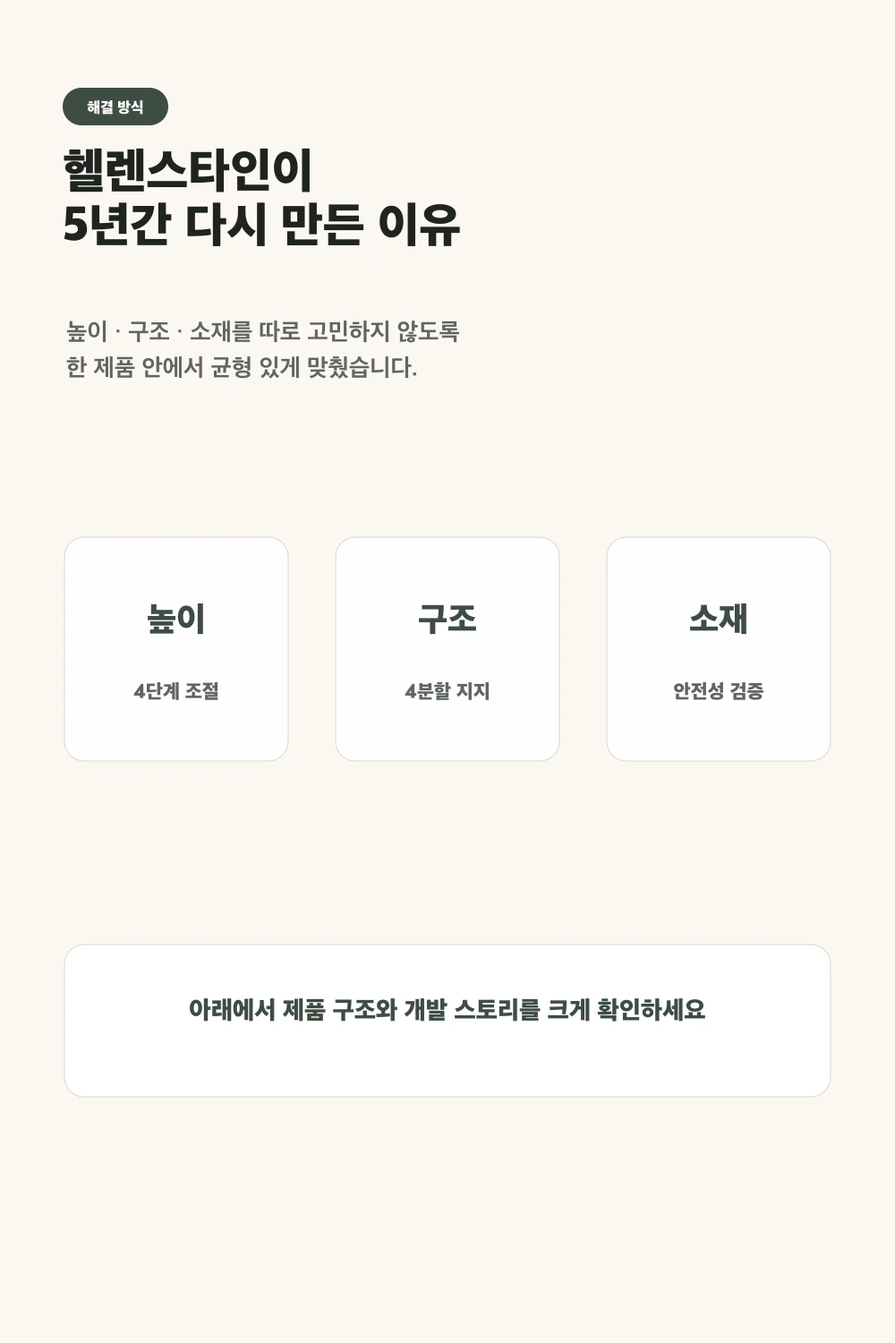
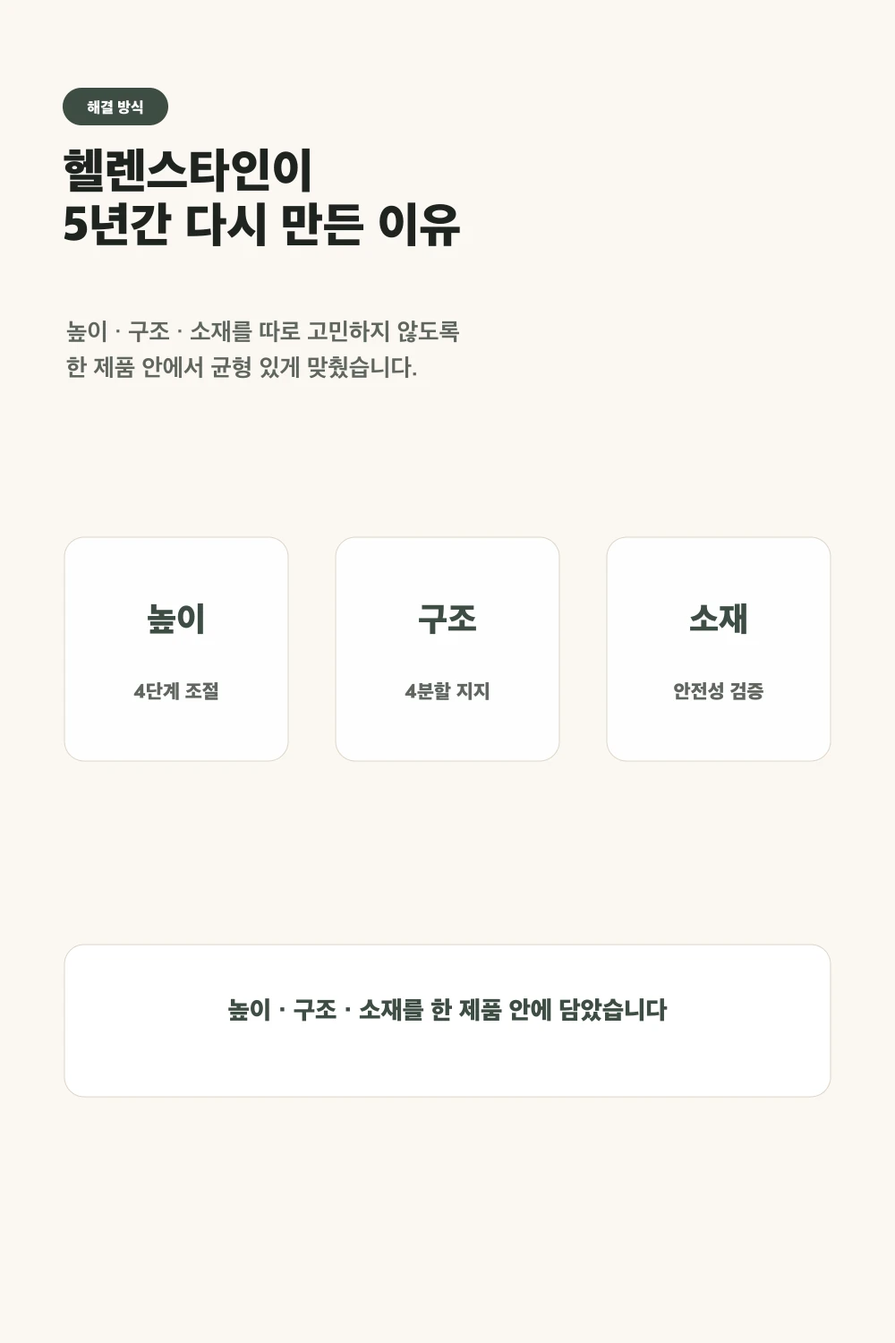
헬렌스타인 PDP GTM full-width 배치 보정
기존 구현은 GTM이 #prdDetail .prdimages만 교체해서 제안 PDP가 PC에서 .detail-left 730px 컬럼 안에 갇히고, 오른쪽 구매 패널이 상세 본문 옆에 계속 붙는 문제가 있었다. 이번 커밋에서는 stickyNav와 .xans-product-additional을 .detailArea 바깥의 .hst-full-detail-shell로 이동해 상세 본문을 1000px 중심 정렬로 렌더링하도록 변경했다.

구매 기능은 건드리지 않도록 Cafe24 구매 폼, 옵션, 수량, 장바구니, Buy Now 영역은 그대로 두었다. 단, 로컬 Cafe24 마크업에서 비구매 안내 블록인 #detailguide가 .detail-right 안에 있어 제안 PDP보다 먼저 노출될 수 있어서, 해당 안내 블록만 제안 shell 뒤로 이동하도록 처리했다.

모바일에서는 기존 Cafe24 하단 구매바와 중복되지 않도록 custom sticky CTA를 생성하지 않는다. PC에서는 구매 영역이 화면에 보이지 않을 때만 구매 옵션 보기 / 후기 보기 sticky를 노출하고, 구매 영역이 보이는 구간에서는 숨긴다. 리뷰 점프와 구매 영역 스크롤 이벤트는 기존 dataLayer 이벤트로 유지했다.

고객에게 보이는 문구에서 후기 수 과시, 내부 배치 전략, 아래에서 크게 확인하라는 제작자 관점 표현을 제거했다. 실제 후기 캐러셀은 '먼저 써본 분들의 사용감' 흐름으로 바꾸고, 구매 전 기준은 FAQ식 문구가 아니라 높이, 자세, 적응, 관리, 선물 기준을 자연스럽게 확인하는 형태로 정리했다.

생성 컷은 solution/authority 하단 문구를 고객 편익 문장으로 수정하고 WebP 및 contact sheet를 다시 빌드했다. docs/pptx-strategy.md와 README.md에는 full-width shell 이동, 모바일 기본 구매바 유지, layout fallback 이벤트를 문서화했다.
[…]

Changed region(s): [[0.217, 0.736, 0.806, 0.7667]]

diff --git a/gtm/hellenstein-pillow-abtest.custom-html.html b/gtm/hellenstein-pillow-abtest.custom-html.html
@@ -3,7 +3,7 @@
   "use strict";
 
   var PRODUCT_NO = "8461";
-  var TAG_VERSION = "2026-05-19.rebuild";
+  var TAG_VERSION = "2026-05-19.full-width-shell";
   var RAW_ASSET_BASE =
     "https://raw.githubusercontent.com/sogangCSmaster/hellenstein_pillow_abtest_sample/main/proposal/";
   var RAW_ORIGINAL_ASSET_BASE =
@@ -14,14 +14,31 @@
   var ORIGINAL_ASSET_BASE = (
     window.__HST_ORIGINAL_ASSET_BASE__ || RAW_ORIGINAL_ASSET_BASE
   ).replace(/\/?$/, "/");
-  var params = new URLSearchParams(window.location.search);
-  var isTargetProduct = params.get("product_no") === PRODUCT_NO;
-  var isExperiment = params.get("abtest") === "true";
-  var isDetailMode = params.get("detail") === "true";
+  var isTargetProduct = getQueryParam("product_no") === PRODUCT_NO;
+  var isExperiment = getQueryParam("abtest") === "true";
+  var isDetailMode = getQueryParam("detail") === "true";
 
   if (!isExperiment || !isTargetProduct) return;
   if (window.__HST_PILLOW_ABTEST_RENDERED__) return;
   window.__HST_PILLOW_ABTEST_RENDERED__ = true;
+
+  function getQueryParam(name) {
+    var query = window.location.search ? window.location.search.substring(1) : "";
+    var pairs = query ? query.split("&") : [];
+    var i;
+    var parts;
+    var key;
+
+    for (i = 0; i < pairs.length; i += 1) {
+      parts = pairs[i].split("=");
+      key = decodeURIComponent((parts[0] || "").replace(/\+/g, " "));
+      if (key === name) {
+        return decodeURIComponent((parts.slice(1).join("=") || "").replace(/\+/g, " "));
+      }
+    }
+
+    return "";
+  }
 
   var detailMeta = {
     hero: {
@@ -97,18 +114,24 @@
   };
 
   function pushEvent(eventName, payload) {
+    var eventPayload = {
+      event: eventName,
+      product_no: PRODUCT_NO,
+      detail_mode: isDetailMode,
+      asset_version: TAG_VERSION
+    };
+    var key;
+
+    if (payload) {
+      for (key in payload) {
+        if (Object.prototype.hasOwnProperty.call(payload, key)) {
+          eventPayload[key] = payload[key];
+        }
+      }
+    }
+
     window.dataLayer = window.dataLayer || [];
-    window.dataLayer.push(
-      Object.assign(
-        {
-          event: eventName,
-          product_no: PRODUCT_NO,
-          detail_mode: isDetailMode,
-          asset_version: TAG_VERSION
-        },
-        payload || {}
-      )
-    );
+    window.dataLayer.push(eventPayload);
   }
 
   function asset(file) {
@@ -143,12 +166,33 @@
     return template.content.firstElementChild;
   }
 
+  function isMobileViewport() {
+    if (window.matchMedia) {
+      return window.matchMedia("(max-width: 767px)").matches;
+    }
+    return (window.innerWidth || document.documentElement.clientWidth || 0) <= 767;
+  }
+
   function injectStyle() {
     if (document.getElementById("hst-pillow-abtest-style")) return;
     var style = document.createElement("style");
     style.id = "hst-pillow-abtest-style";
     style.textContent = "\n      .hst-pdp, .hst-pdp * { box-sizing: border-box; }\n      .hst-pdp {\n        width: 100%;\n        max-width: 1000px;\n        margin: 0 auto;\n        font-family: -apple-system, BlinkMacSystemFont, \"Apple SD Gothic Neo\", \"Pretendard\", \"Noto Sans KR\", sans-serif;\n        color: #24211e;\n        background: #fffdf9;\n      }\n      .hst-block {\n        position: relative;\n        width: 100%;\n        margin: 0 auto;\n        background: #fffdf9;\n      }\n      .hst-image-block img {\n        display: block;\n        width: 100%;\n        height: auto;\n        margin: 0 auto;\n        border: 0;\n      }\n      .hst-html-block {\n        padding: 72px 56px;\n        border-top: 1px solid #ede3d7;\n      }\n      .hst-eyebrow {\n        display: inline-flex;\n        align-items: center;\n        height: 30px;\n        padding: 0 13px;\n        border-radius: 999px;\n        background: #3d4d43;\n        color: #fff;\n        font-size: 13px;\n        font-weight: 800;\n        letter-spacing: 0;\n      }\n      .hst-html-block h2 {\n        margin: 22px 0 16px;\n        font-size: 40px;\n        line-height: 1.18;\n        font-weight: 850;\n        letter-spacing: 0;\n        color: #1f2421;\n      }\n      .hst-html-block p {\n        margin: 0;\n        font-size: 18px;\n        line-height: 1.72;\n        color: #62675f;\n        letter-spacing: 0;\n      }\n      .hst-persona-grid,\n      .hst-comparison-table,\n      .hst-risk-grid {\n        margin-top: 34px;\n      }\n      .hst-review-card {\n        min-height: 230px;\n        padding: 22px 20px;\n        border: 1px solid #e5ddd2;\n        border-radius: 8px;\n        background: #fff;\n      }\n      .hst-review-card blockquote {\n        margin: 14px 0 16px;\n        font-size: 15px;\n        line-height: 1.62;\n        color: #32342f;\n      }\n      .hst-review-card footer {\n        font-size: 13px;\n        color: #7b7a73;\n      }\n      .hst-action-row {\n        display: flex;\n        flex-wrap: wrap;\n        gap: 10px;\n        align-items: center;\n        margin-top: 30px;\n      }\n      .hst-button {\n        appearance: none;\n        border: 1px solid #3d4d43;\n        border-radius: 4px;\n        background: #3d4d43;\n        color: #fff;\n        min-height: 46px;\n        padding: 0 18px;\n        font-size: 15px;\n        font-weight: 800;\n        cursor: pointer;\n      }\n      .hst-button.secondary {\n        background: #fff;\n        color: #3d4d43;\n      }\n      .hst-comparison-wrap {\n        overflow-x: auto;\n        border: 1px solid #e2d9ce;\n        border-radius: 8px;\n        background: #fff;\n      }\n      .hst-comparison-table {\n        width: 100%;\n        min-width: 720px;\n        border-collapse: collapse;\n        margin: 0;\n        font-size: 15px;\n      }\n      .hst-comparison-table th,\n      .hst-comparison-table td {\n        padding: 18px 16px;\n        border-bottom: 1px solid #ebe3d9;\n        text-align: left;\n        vertical-align: top;\n        line-height: 1.55;\n      }\n      .hst-comparison-table th {\n        background: #f7f2ea;\n        color: #3d4d43;\n        font-weight: 850;\n      }\n      .hst-comparison-table tr:last-child td {\n        border-bottom: 0;\n      }\n      .hst-comparison-table td:first-child {\n        width: 18%;\n        font-weight: 850;\n        color: #24211e;\n      }\n      .hst-comparison-table td:nth-child(2) {\n        background: #fffaf3;\n        color: #20231f;\n        font-weight: 720;\n      }\n      .hst-risk-grid {\n        display: grid;\n        grid-template-columns: repeat(3, minmax(0, 1fr));\n        gap: 14px;\n      }\n      .hst-risk-card {\n        padding: 22px 20px;\n        border: 1px solid #e3dacd;\n        border-radius: 8px;\n        background: #fff;\n      }\n      .hst-risk-card strong {\n        display: block;\n        margin-bottom: 10px;\n        color: #3d4d43;\n        font-size: 18px;\n      }\n      .hst-top-proof {\n        clear: both;\n        margin: 18px 0 24px;\n        padding: 18px 18px 16px;\n        border: 1px solid #e5ddd2;\n        border-radius: 8px;\n        background: #fffaf3;\n        font-family: -apple-system, BlinkMacSystemFont, \"Apple SD Gothic Neo\", \"Pretendard\", \"Noto Sans KR\", sans-serif;\n      }\n      .hst-top-proof strong {\n        display: block;\n        font-size: 18px;\n        line-height: 1.35;\n        color: #24211e;\n      }\n      .hst-top-proof p {\n        margin: 7px 0 0;\n        font-size: 13px;\n        line-height: 1.55;\n        color: #68645d;\n      }\n      .hst-top-proof button {\n        margin-top: 12px;\n        height: 36px;\n        padding: 0 13px;\n        border: 1px solid #3d4d43;\n        border-radius: 4px;\n        background: #3d4d43;\n        color: #fff;\n        font-size: 13px;\n        font-weight: 800;\n        cursor: pointer;\n      }\n      .hst-sticky-cta {\n        position: fixed;\n        z-index: 2147483000;\n        right: 24px;\n        bottom: 24px;\n        display: flex;\n        gap: 8px;\n        align-items: center;\n        padding: 10px;\n        border: 1px solid rgba(61, 77, 67, .18);\n        border-radius: 8px;\n        background: rgba(255, 253, 249, .96);\n        box-shadow: 0 12px 32px rgba(0, 0, 0, .16);\n        backdrop-filter: blur(10px);\n      }\n      .hst-sticky-cta button {\n        height: 42px;\n        border-radius: 4px;\n        border: 1px solid #3d4d43;\n        padding: 0 14px;\n        font-size: 14px;\n        font-weight: 850;\n        cursor: pointer;\n      }\n      .hst-sticky-cta .primary {\n        background: #3d4d43;\n        color: #fff;\n      }\n      .hst-sticky-cta .secondary {\n        background: #fff;\n        color: #3d4d43;\n      }\n      .hst-detail-highlight {\n        outline: 3px solid rgba(239, 68, 68, .9);\n        outline-offset: -3px;\n      }\n      .hst-detail-highlight::before {\n        content: \"\";\n        position: absolute;\n        inset: 0;\n        pointer-events: none;\n        background: rgba(255, 214, 102, .18);\n        z-index: 4;\n      }\n      .hst-detail-badge {\n        position: absolute;\n        z-index: 5;\n        top: 18px;\n        left: 18px;\n        max-width: min(430px, calc(100% - 36px));\n        padding: 14px 15px 13px;\n        border: 2px solid #ef4444;\n        border-radius: 8px;\n        background: rgba(255, 255, 255, .94);\n        color: #1f2421;\n        box-shadow: 0 12px 30px rgba(31, 36, 33, .18);\n        text-align: left;\n      }\n      .hst-detail-badge strong {\n        display: block;\n        font-size: 14px;\n        line-height: 1.35;\n        color: #b42318;\n      }\n      .hst-detail-badge span {\n        display: block;\n        margin-top: 4px;\n        font-size: 13px;\n        line-height: 1.45;\n        color: #544c43;\n      }\n      @media (max-width: 767px) {\n        html.hst-pillow-abtest-active,\n        html.hst-pillow-abtest-active body {\n          width: 100% !important;\n          max-width: 100% !important;\n          margin-left: 0 !important;\n          margin-right: 0 !important;\n          overflow-x: hidden !important;\n        }\n        html.hst-pillow-abtest-active #wrap,\n        html.hst-pillow-abtest-active #container,\n        html.hst-pillow-abtest-active #contentsWrap,\n        html.hst-pillow-abtest-active #contents-detail,\n        html.hst-pillow-abtest-active .detailArea,\n        html.hst-pillow-abtest-active .detail-left,\n        html.hst-pillow-abtest-active .detail-right,\n        html.hst-pillow-abtest-active .productDetail,\n        html.hst-pillow-abtest-active .prdimages,\n        html.hst-pillow-abtest-active .hst-pdp {\n          width: 100% !important;\n          max-width: 100% !important;\n          min-width: 0 !important;\n          margin-left: 0 !important;\n          margin-right: 0 !important;\n          float: none !important;\n        }\n        .hst-html-block {\n          padding: 48px 20px;\n        }\n        .hst-html-block h2 {\n          font-size: 29px;\n          line-height: 1.22;\n        }\n        .hst-html-block p {\n          font-size: 15px;\n          line-height: 1.72;\n        }\n        .hst-risk-grid {\n          grid-template-columns: 1fr;\n        }\n        .hst-sticky-cta {\n          left: 12px;\n          right: 12px;\n          bottom: 78px;\n          justify-content: stretch;\n        }\n        .hst-sticky-cta button {\n          flex: 1 1 0;\n          padding: 0 10px;\n        }\n        .hst-detail-badge {\n          position: relative;\n          top: auto;\n          left: auto;\n          max-width: none;\n          margin: 0;\n          border-radius: 0;\n          border-left: 3px solid #ef4444;\n          border-right: 3px solid #ef4444;\n        }\n      }\n    ";
     style.textContent +=
+      "\n      html.hst-pillow-abtest-full-detail .hst-full-detail-shell { clear: both; width: 100%; max-width: none; margin: 0 auto; padding: 0 0 80px; background: #fffdf9; }" +
+      "\n      html.hst-pillow-abtest-full-detail .hst-full-detail-shell::before { content: \"\"; display: table; clear: both; }" +
+      "\n      html.hst-pillow-abtest-full-detail .hst-full-detail-shell #stickyNav { position: sticky; top: 72px; z-index: 30; width: 100% !important; max-width: 1000px !important; margin: 0 auto !important; background: #fffdf9; }" +
+      "\n      html.hst-pillow-abtest-full-detail .hst-full-detail-shell #stickyNav .nav-list { display: flex; list-style: none; margin: 0; padding: 0; border-left: 1px solid #e3dacd; background: #fffdf9; }" +
+      "\n      html.hst-pillow-abtest-full-detail .hst-full-detail-shell #stickyNav .nav-item { flex: 1 1 0; margin: 0; padding: 0; text-align: center; }" +
+      "\n      html.hst-pillow-abtest-full-detail .hst-full-detail-shell #stickyNav .nav-item a { display: block; min-height: 48px; padding: 14px 12px; border-top: 1px solid #e3dacd; border-right: 1px solid #e3dacd; border-bottom: 1px solid #e3dacd; background: #fffdf9; color: #3d4d43; text-decoration: none; font-size: 15px; font-weight: 850; line-height: 1.35; }" +
+      "\n      html.hst-pillow-abtest-full-detail .hst-full-detail-shell #stickyNav .nav-item.active a { background: #3d4d43; color: #fff; }" +
+      "\n      html.hst-pillow-abtest-full-detail .hst-full-detail-shell .xans-product-additional, html.hst-pillow-abtest-full-detail .hst-full-detail-shell #prdDetail, html.hst-pillow-abtest-full-detail .hst-full-detail-shell #prdDetail .prdimages, html.hst-pillow-abtest-full-detail .hst-full-detail-shell .productDetail { width: 100% !important; max-width: none !important; min-width: 0 !important; margin-left: auto !important; margin-right: auto !important; float: none !important; clear: both !important; }" +
+      "\n      html.hst-pillow-abtest-full-detail .hst-full-detail-shell #prdDetail .prdimages { padding: 0 !important; text-align: initial !important; }" +
+      "\n      html.hst-pillow-abtest-full-detail .hst-full-detail-shell #prdReview, html.hst-pillow-abtest-full-detail .hst-full-detail-shell #prdQnA, html.hst-pillow-abtest-full-detail .hst-full-detail-shell .pc_detail_board { width: 100% !important; max-width: 1000px !important; margin-left: auto !important; margin-right: auto !important; }" +
+      "\n      html.hst-pillow-abtest-full-detail #detailguide { width: 100% !important; max-width: 1000px !important; margin-left: auto !important; margin-right: auto !important; clear: both !important; }" +
+      "\n      html.hst-pillow-abtest-full-detail .hst-full-detail-shell .hst-block, html.hst-pillow-abtest-full-detail .hst-full-detail-shell #prdReview, html.hst-pillow-abtest-full-detail .hst-full-detail-shell #prdQnA { scroll-margin-top: 120px; }" +
+      "\n      .hst-sticky-cta { opacity: 0 !important; pointer-events: none !important; transform: translateY(8px); transition: opacity .18s ease, transform .18s ease; }" +
+      "\n      .hst-sticky-cta.is-visible { opacity: 1 !important; pointer-events: auto !important; transform: translateY(0); }" +
       "\n      .hst-review-carousel { margin-top: 34px; display: flex; gap: 14px; overflow-x: auto; overscroll-behavior-x: contain; scroll-snap-type: x mandatory; padding: 0 4px 12px 0; -webkit-overflow-scrolling: touch; }" +
       "\n      .hst-review-carousel .hst-review-card { flex: 0 0 320px; scroll-snap-align: start; }" +
       "\n      .hst-review-card .hst-review-label { display: inline-flex; align-items: center; min-height: 28px; padding: 0 10px; border-radius: 999px; background: #f7f2ea; color: #3d4d43; font-size: 12px; font-weight: 850; }" +
@@ -156,7 +200,7 @@
       "\n      .hst-criteria-item { padding: 24px 24px 22px; border: 1px solid #e3dacd; border-radius: 8px; background: #fff; }" +
       "\n      .hst-criteria-item strong { display: block; margin-bottom: 10px; font-size: 18px; color: #24211e; }" +
       "\n      .hst-criteria-item p { font-size: 15px; line-height: 1.65; }" +
-      "\n      @media (max-width: 767px) { .hst-review-carousel { margin-left: -20px; margin-right: -20px; padding-left: 20px; padding-right: 20px; } .hst-review-carousel .hst-review-card { flex-basis: 82%; } .hst-criteria-list { grid-template-columns: 1fr; } }";
+      "\n      @media (max-width: 767px) { html.hst-pillow-abtest-full-detail .hst-full-detail-shell { padding-bottom: 40px; } html.hst-pillow-abtest-full-detail .hst-full-detail-shell #stickyNav { top: 94px; max-width: 100% !important; overflow-x: auto; } html.hst-pillow-abtest-full-detail .hst-full-detail-shell #stickyNav .nav-list { min-width: 330px; } html.hst-pillow-abtest-full-detail .hst-full-detail-shell #stickyNav .nav-item a { min-height: 42px; padding: 12px 10px; font-size: 13px; white-space: nowrap; } .hst-sticky-cta { display: none !important; } .hst-review-carousel { margin-left: -20px; margin-right: -20px; padding-left: 20px; padding-right: 20px; } .hst-review-carousel .hst-review-card { flex-basis: 82%; } .hst-criteria-list { grid-template-columns: 1fr; } }";
     document.head.appendChild(style);
   }
 
@@ -293,7 +337,7 @@
     var reviews = collectReviews();
     return htmlBlock(
       "social-proof",
-      "\n        <span class=\"hst-eyebrow\">실제 사용 후기</span>\n        <h2>숫자보다, 실제 사용감을 먼저 보여줍니다</h2>\n        <p>후기 수를 크게 반복하기보다 실제 리뷰에서 반복되는 높이 조절, 목 지지감, 관리 편의성 이야기를 가로로 넘겨볼 수 있게 배치합니다.</p>\n        <div class=\"hst-review-carousel\" aria-label=\"실제 사용 후기 캐러셀\">" + (reviewCards(reviews)) + "</div>\n        <div class=\"hst-action-row\">\n          <button class=\"hst-button\" type=\"button\" data-hst-review-jump>전체 후기 보기</button>\n        </div>\n      ",
+      "\n        <span class=\"hst-eyebrow\">실제 사용 후기</span>\n        <h2>먼저 써본 분들의 사용감</h2>\n        <p>높이 조절이 쉬웠는지, 목을 받쳐주는 느낌이 어땠는지 실제 후기로 확인하세요.</p>\n        <div class=\"hst-review-carousel\" aria-label=\"실제 사용 후기 캐러셀\">" + (reviewCards(reviews)) + "</div>\n        <div class=\"hst-action-row\">\n          <button class=\"hst-button\" type=\"button\" data-hst-review-jump>후기 확인하기</button>\n        </div>\n      ",
       detailMeta.social
     );
   }
@@ -317,7 +361,7 @@
   function purchaseCriteriaBlock() {
     return htmlBlock(
       "purchase-criteria",
-      "\n        <span class=\"hst-eyebrow\">구매 전 확인 기준</span>\n        <h2>내게 맞는지 판단할 기준을 먼저 정리합니다</h2>\n        <p>일반적인 문답 섹션 대신 실제 구매 전에 비교하게 되는 기준을 순서대로 보여줍니다. 베개를 고르는 이유가 분명해질수록 가격 비교보다 내 몸에 맞는지 판단하기 쉬워집니다.</p>\n        <div class=\"hst-criteria-list\">\n          <div class=\"hst-criteria-item\"><strong>높이: 낮게 시작해 한 단계씩 맞추기</strong><p>처음부터 높은 세팅을 고정하지 않고, 기본 높이에서 시작해 목과 어깨 느낌에 맞춰 패드를 조절하는 흐름으로 안내합니다.</p></div>\n          <div class=\"hst-criteria-item\"><strong>자세: 바로 눕기와 옆잠을 같이 보기</strong><p>정면으로 누웠을 때의 목 지지감과 옆으로 누웠을 때 머리·목 라인이 함께 맞는지 확인하도록 구조 정보를 이어서 배치합니다.</p></div>\n          <div class=\"hst-criteria-item\"><strong>적응: 첫날 느낌만으로 판단하지 않기</strong><p>경추 베개는 체형과 수면 습관에 따라 적응감이 달라질 수 있으므로, 조절 방법과 공식 교환·반품 기준을 함께 확인하게 합니다.</p></div>\n          <div class=\"hst-criteria-item\"><strong>관리: 매일 쓰는 침구답게 확인하기</strong><p>커버, 세탁, 케어 가이드, 제품 스펙을 하단에서 다시 확인하게 해 오래 쓰는 침구의 관리 불안을 줄입니다.</p></div>\n          <div class=\"hst-criteria-item\"><strong>선물: 높이 취향을 몰라도 설명하기 쉽게</strong><p>부모님이나 가족 선물 맥락에서는 조절형 구조와 사용 가이드가 있다는 점을 중심으로 선택 이유를 만들 수 있습니다.</p></div>\n        </div>\n      ",
+      "\n        <span class=\"hst-eyebrow\">구매 전 확인 기준</span>\n        <h2>내게 맞는 베개인지 확인하는 기준</h2>\n        <p>처음에는 기본 높이로 시작하고, 자세와 관리 방식까지 함께 보면 선택이 쉬워집니다.</p>\n        <div class=\"hst-criteria-list\">\n          <div class=\"hst-criteria-item\"><strong>높이: 낮게 시작해 한 단계씩 맞추기</strong><p>처음부터 높은 세팅을 고정하지 않고, 기본 높이에서 시작해 목과 어깨 느낌에 맞춰 패드를 조절합니다.</p></div>\n          <div class=\"hst-criteria-item\"><strong>자세: 바로 눕기와 옆잠을 같이 보기</strong><p>정면으로 누웠을 때의 목 지지감과 옆으로 누웠을 때 머리·목 라인이 함께 맞는지 확인합니다.</p></div>\n          <div class=\"hst-criteria-item\"><strong>적응: 첫날 느낌만으로 판단하지 않기</strong><p>경추 베개는 체형과 수면 습관에 따라 적응감이 달라질 수 있어 조절 방법과 공식 교환·반품 기준을 함께 확인합니다.</p></div>\n          <div class=\"hst-criteria-item\"><strong>관리: 매일 쓰는 침구답게 확인하기</strong><p>커버, 세탁, 케어 가이드, 제품 스펙을 함께 확인하면 오래 쓰는 침구의 관리 부담을 줄일 수 있습니다.</p></div>\n          <div class=\"hst-criteria-item\"><strong>선물: 높이 취향을 몰라도 설명하기 쉽게</strong><p>부모님이나 가족 선물이라면 조절형 구조와 사용 가이드가 있는지 먼저 확인하는 편이 좋습니다.</p></div>\n        </div>\n      ",
       detailMeta.criteria
     );
   }
@@ -362,24 +406,27 @@
     var box = document.querySelector(".infoAreabox");
     if (!box || document.querySelector(".hst-top-proof")) return;
     var proof = createElement(
-      "\n      <div class=\"hst-top-proof\">\n        <strong>실제 후기에서 반복되는 만족 포인트</strong>\n        <p>높이 조절, 목 지지감, 관리 편의성을 구매 전에 먼저 확인하세요.</p>\n        <button type=\"button\" data-hst-review-jump>실제 후기 먼저 보기</button>\n      </div>\n      "
+      "\n      <div class=\"hst-top-proof\">\n        <strong>먼저 써본 분들의 사용감</strong>\n        <p>높이 조절과 목 지지감은 실제 후기로 먼저 확인할 수 있습니다.</p>\n        <button type=\"button\" data-hst-review-jump>후기 확인하기</button>\n      </div>\n      "
     );
     box.parentNode.insertBefore(proof, box.nextSibling);
   }
 
   function injectStickyCta() {
+    if (isMobileViewport()) return;
     if (document.querySelector(".hst-sticky-cta")) return;
     var sticky = createElement(
-      "\n      <div class=\"hst-sticky-cta\" role=\"region\" aria-label=\"내 목의 베개 빠른 이동\">\n        <button type=\"button\" class=\"primary\" data-hst-purchase-jump>옵션 확인</button>\n        <button type=\"button\" class=\"secondary\" data-hst-review-jump>후기 보기</button>\n      </div>\n      "
+      "\n      <div class=\"hst-sticky-cta\" role=\"region\" aria-label=\"내 목의 베개 빠른 이동\">\n        <button type=\"button\" class=\"primary\" data-hst-purchase-jump>구매 옵션 보기</button>\n        <button type=\"button\" class=\"secondary\" data-hst-review-jump>후기 보기</button>\n      </div>\n      "
     );
     document.body.appendChild(sticky);
+    bindStickyVisibility(sticky);
   }
 
   function findPurchaseTarget() {
     return (
+      document.querySelector(".detail-right .infoAreabox") ||
       document.querySelector(".detail-right .infoArea") ||
-      document.querySelector(".detail-right #orderFixItem") ||
       document.querySelector(".detail-right") ||
+      document.querySelector(".detail-right #orderFixItem") ||
       document.querySelector("#orderFixItem")
     );
   }
@@ -387,6 +434,113 @@
   function scrollToElement(target) {
     if (!target) return;
     target.scrollIntoView({ behavior: "smooth", block: "start" });
+  }
+
+  function bindStickyVisibility(sticky) {
+    var purchaseTarget = findPurchaseTarget();
+    var scrollTimer = null;
+
+    if (!sticky || isMobileViewport()) {
+      if (sticky) sticky.classList.remove("is-visible");
+      return;
+    }
+
+    if (!purchaseTarget) {
+      sticky.classList.add("is-visible");
+      return;
+    }
+
+    function update() {
+      var rect = purchaseTarget.getBoundingClientRect();
+      var viewportHeight = window.innerHeight || document.documentElement.clientHeight || 0;
+      var isPurchaseVisible = rect.bottom > 80 && rect.top < viewportHeight - 120;
+      if (isPurchaseVisible) {
+        sticky.classList.remove("is-visible");
+      } else {
+        sticky.classList.add("is-visible");
+      }
+    }
+
+    function throttledUpdate() {
+      if (scrollTimer) return;
+      scrollTimer = window.setTimeout(function () {
+        scrollTimer = null;
+        update();
+      }, 80);
+    }
+
+    if ("IntersectionObserver" in window) {
+      var observer = new IntersectionObserver(
+        function (entries) {
+          var visible = false;
+          var i;
+          for (i = 0; i < entries.length; i += 1) {
+            if (entries[i].isIntersecting) visible = true;
+          }
+          if (visible) {
+            sticky.classList.remove("is-visible");
+          } else {
+            sticky.classList.add("is-visible");
+          }
+        },
+        { root: null, threshold: 0.05, rootMargin: "-80px 0px -120px 0px" }
+      );
+      observer.observe(purchaseTarget);
+    } else {
+      window.addEventListener("scroll", throttledUpdate);
+    }
+
+    window.addEventListener("resize", throttledUpdate);
+    update();
+  }
+
+  function ensureFullDetailShell() {
+    var detailArea = document.querySelector(".detailArea");
+    var additional =
+      document.querySelector(".detail-left .xans-product-additional") ||
+      document.querySelector(".hst-full-detail-shell .xans-product-additional");
+    var stickyNav =
+      document.querySelector(".detail-left #stickyNav") ||
+      document.querySelector(".hst-full-detail-shell #stickyNav");
+    var detailGuide = document.querySelector(".detail-right #detailguide");
+    var shell = document.querySelector(".hst-full-detail-shell");
+
+    if (!detailArea || !detailArea.parentNode || !additional) return null;
+
+    if (!shell) {
+      shell = document.createElement("div");
+      shell.className = "hst-full-detail-shell";
+      shell.setAttribute("data-hst-layout", "full-detail-shell");
+      if (detailArea.nextSibling) {
+        detailArea.parentNode.insertBefore(shell, detailArea.nextSibling);
+      } else {
+        detailArea.parentNode.appendChild(shell);
+      }
+    }
+
+    if (stickyNav && stickyNav.parentNode !== shell) {
+      shell.appendChild(stickyNav);
+    }
+
+    if (additional.parentNode !== shell) {
+      shell.appendChild(additional);
+    }
+
+    if (detailGuide && shell.parentNode && detailGuide.parentNode !== shell.parentNode) {
+      if (shell.nextSibling) {
+        shell.parentNode.insertBefore(detailGuide, shell.nextSibling);
+      } else {
+        shell.parentNode.appendChild(detailGuide);
+      }
+    }
+
+    shell.classList.add("is-ready");
+    additional.classList.add("hst-additional-relocated");
+
+    return {
+      shell: shell,
+      target: additional.querySelector("#prdDetail .prdimages")
+    };
   }
 
   function bindActions(root) {
@@ -415,7 +569,17 @@
     injectStyle();
     document.documentElement.classList.add("hst-pillow-abtest-active");
 
-    var target = document.querySelector("#prdDetail .prdimages");
+    var layout = ensureFullDetailShell();
+    var target = layout && layout.target ? layout.target : document.querySelector("#prdDetail .prdimages");
+
+    if (layout && layout.target) {
+      document.documentElement.classList.add("hst-pillow-abtest-full-detail");
+    } else if (target) {
+      pushEvent("hellenstein_pillow_abtest_layout_fallback", {
+        reason: "full_detail_shell_unavailable"
+      });
+    }
+
     if (!target) {
       window.__HST_PILLOW_ABTEST_RENDERED__ = false;
       return false;

diff --git a/scripts/build-proposal-assets.js b/scripts/build-proposal-assets.js
@@ -275,7 +275,7 @@ async function buildSolution() {
         ${text({ x: 500, y: 780, value: "4분할 지지", size: 22, weight: 750, color: C.muted, anchor: "middle" })}
         ${text({ x: 803, y: 780, value: "안전성 검증", size: 22, weight: 750, color: C.muted, anchor: "middle" })}
         ${rect({ x: 72, y: 1055, w: 856, h: 170, fill: "#ffffff", rx: 22, stroke: C.line })}
-        ${text({ x: 500, y: 1138, value: "아래에서 제품 구조와 개발 스토리를 크게 확인하세요", size: 28, weight: 850, color: C.sage, anchor: "middle", max: 30 })}
+        ${text({ x: 500, y: 1138, value: "높이 · 구조 · 소재를 한 제품 안에 담았습니다", size: 28, weight: 850, color: C.sage, anchor: "middle", max: 30 })}
       `),
       left: 0,
       top: 0,
@@ -364,7 +364,7 @@ async function buildAuthority() {
     {
       input: svg(`
         ${pill({ x: 70, y: 92, value: "신뢰 요소", w: 118 })}
-        ${text({ x: 70, y: 198, value: ["인증과 테스트를", "한 번에 묶어 보여줍니다"], size: 54, weight: 900, lh: 1.12 })}
+        ${text({ x: 70, y: 198, value: ["인증과 테스트를", "한 번에 확인합니다"], size: 54, weight: 900, lh: 1.12 })}
         ${text({
           x: 74,
           y: 365,
@@ -384,7 +384,7 @@ async function buildAuthority() {
         ${text({ x: 207, y: 820, value: "공기 투과도", size: 22, weight: 750, color: C.muted, anchor: "middle" })}
         ${text({ x: 500, y: 820, value: "소재 안전성", size: 22, weight: 750, color: C.muted, anchor: "middle" })}
         ${text({ x: 793, y: 820, value: "세탁 견뢰도", size: 22, weight: 750, color: C.muted, anchor: "middle" })}
-        ${text({ x: 500, y: 1110, value: "아래에서 인증과 테스트 내용을 크게 확인하세요", size: 28, weight: 850, color: C.sage, anchor: "middle", max: 32 })}
+        ${text({ x: 500, y: 1110, value: "매일 쓰는 침구라서 소재와 내구성까지 확인했습니다", size: 28, weight: 850, color: C.sage, anchor: "middle", max: 32 })}
       `),
       left: 0,
       top: 0,

diff --git a/docs/pptx-strategy.md b/docs/pptx-strategy.md
@@ -74,12 +74,39 @@ Image generation and composition constraints:
 From `cro`, `copywriting`, `marketing-psychology`, `ab-testing`, and `grain`:
 
 - Make the next action obvious, but keep clickable actions in HTML.
-- Reduce decisions before reducing clicks: one primary sticky action, supporting review jump.
+- Reduce decisions before reducing clicks: use a conditional desktop sticky action, but keep the native Cafe24 mobile buy bar as the only mobile fixed CTA.
 - Keep one idea per section.
 - Use actual review language where available; do not invent fake testimonials or overuse review-count proof.
 - Put proof near claims: review proof near hero, certification proof near authority, comparison near price justification.
 - Separate experiment presentation from customer-facing PDP: `detail=true` shows rationale overlays; `detail=false` should feel like a shopper page.
 - Track rendered state and CTA clicks through `dataLayer`.
+
+## GTM Layout Principle
+
+The GTM implementation does not only replace the long image stack inside
+`#prdDetail .prdimages`. For the proposal view, it moves the existing
+`.detail-left .xans-product-additional` block and the adjacent `#stickyNav`
+into a new full-width `.hst-full-detail-shell` after `.detailArea`.
+
+This preserves the original Cafe24 product gallery, purchase form, options,
+quantity controls, cart button, and buy button, while letting the proposed PDP
+body render as a centered 1000px detail page instead of being trapped in the
+730px left column.
+
+The non-purchase `#detailguide` notice block is moved after the proposal shell
+when it is nested inside `.detail-right`, because otherwise the proposed PDP can
+be pushed below shipping and exchange notices in the local Cafe24 markup.
+
+If the full-width shell cannot be created, the tag falls back to the older image
+replacement path and pushes `hellenstein_pillow_abtest_layout_fallback` to
+`dataLayer` so the failure is visible during GTM QA.
+
+Mobile constraint:
+
+- Do not render a custom sticky CTA on mobile.
+- Keep the native Cafe24 bottom buy bar as the only fixed purchase action.
+- Keep review jumps available from the top proof module and in-page review block,
+  but avoid stacking another fixed bar above `Add to Cart / Buy Now`.
 
 ## Detail Mode
 

diff --git a/README.md b/README.md
@@ -66,14 +66,21 @@ NODE_PATH=/Users/yuseungjae/.cache/codex-runtimes/codex-primary-runtime/dependen
 - 상품 정보 영역 상단 신뢰 모듈
 - Solution 이후 실제 리뷰 요약 모듈
 - 비교표, 적응 기간 안내, 구매 전 확인 기준
-- 하단 Sticky CTA
+- PC 조건부 Sticky CTA
+- 모바일 기본 Cafe24 구매바 유지
 - `detail=true`일 때 PPTX 기반 설명 패널
+
+GTM은 `#prdDetail .prdimages`만 바꾸는 방식이 아니라, 상세 추가정보 영역을
+`.detailArea` 바깥의 full-width shell로 옮겨 PC에서도 제안 PDP 본문이 1000px
+중심 정렬 상세페이지처럼 보이게 합니다. 구매 폼, 옵션, 장바구니, 구매 버튼은
+기존 Cafe24 영역을 그대로 사용합니다.
 
 GTM 태그는 아래 이벤트를 `dataLayer`에 push합니다.
 
 - `hellenstein_pillow_abtest_rendered`
 - `hellenstein_pillow_abtest_sticky_cta_click`
 - `hellenstein_pillow_abtest_review_jump_click`
+- `hellenstein_pillow_abtest_layout_fallback`
 
 이미지 URL은 레포를 `main` 브랜치에 push한 뒤 아래 형태로 사용됩니다.
 
